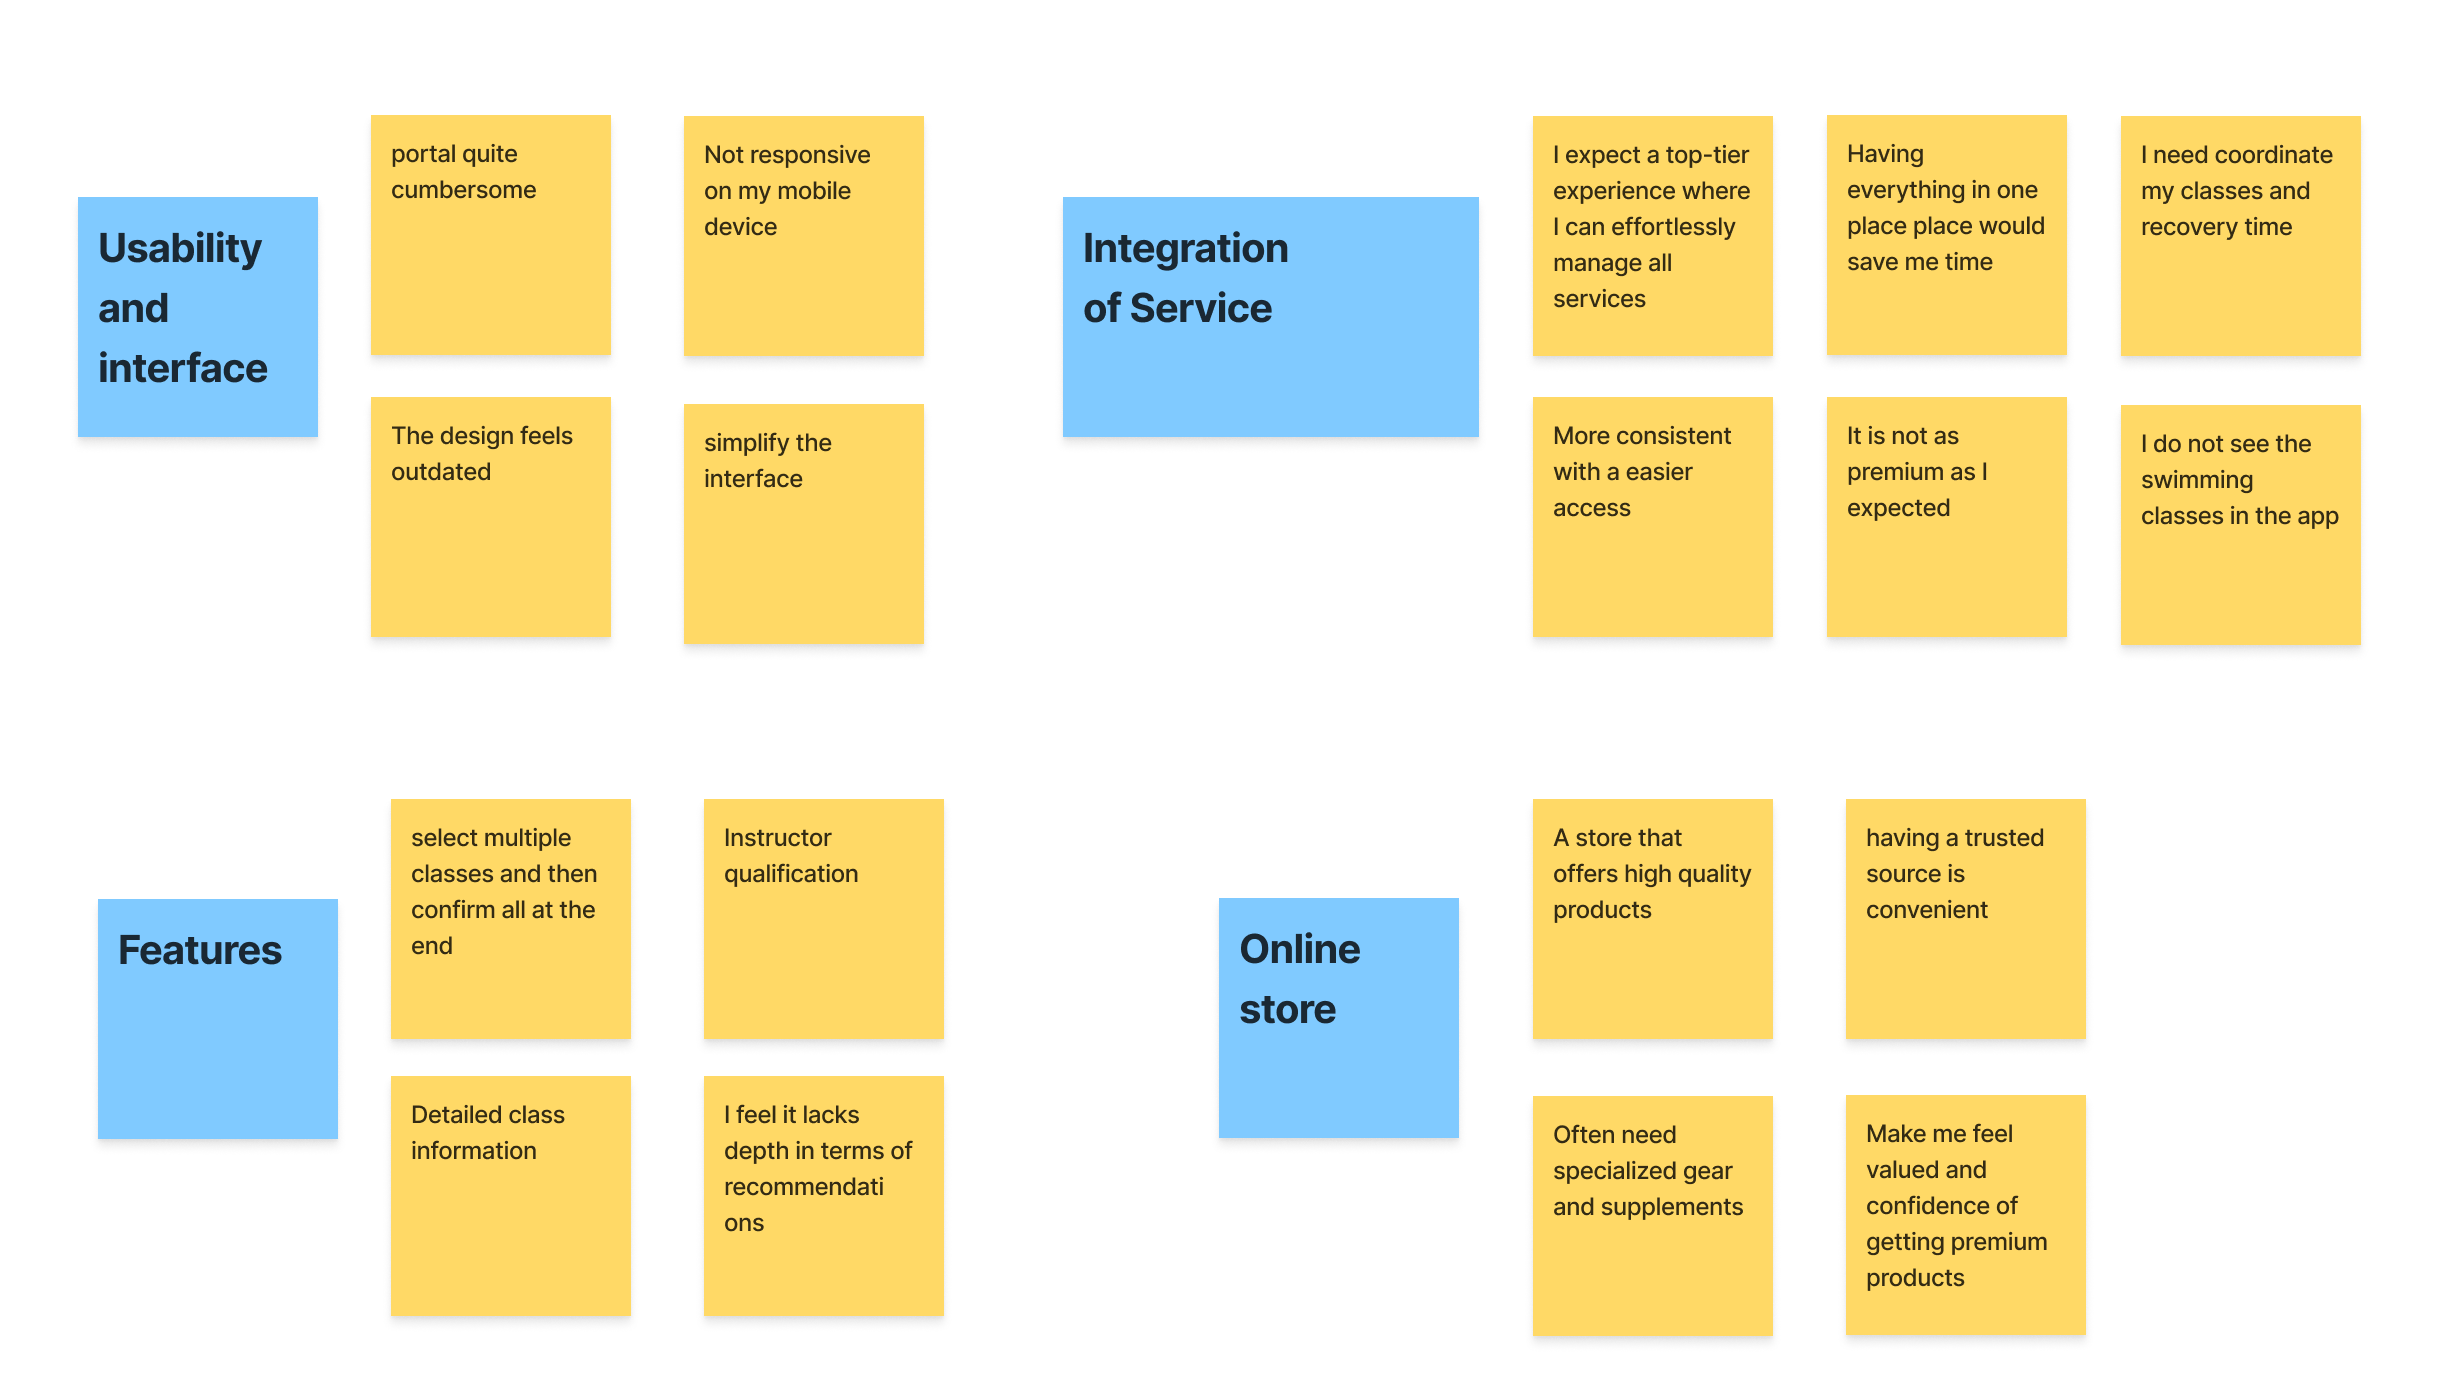
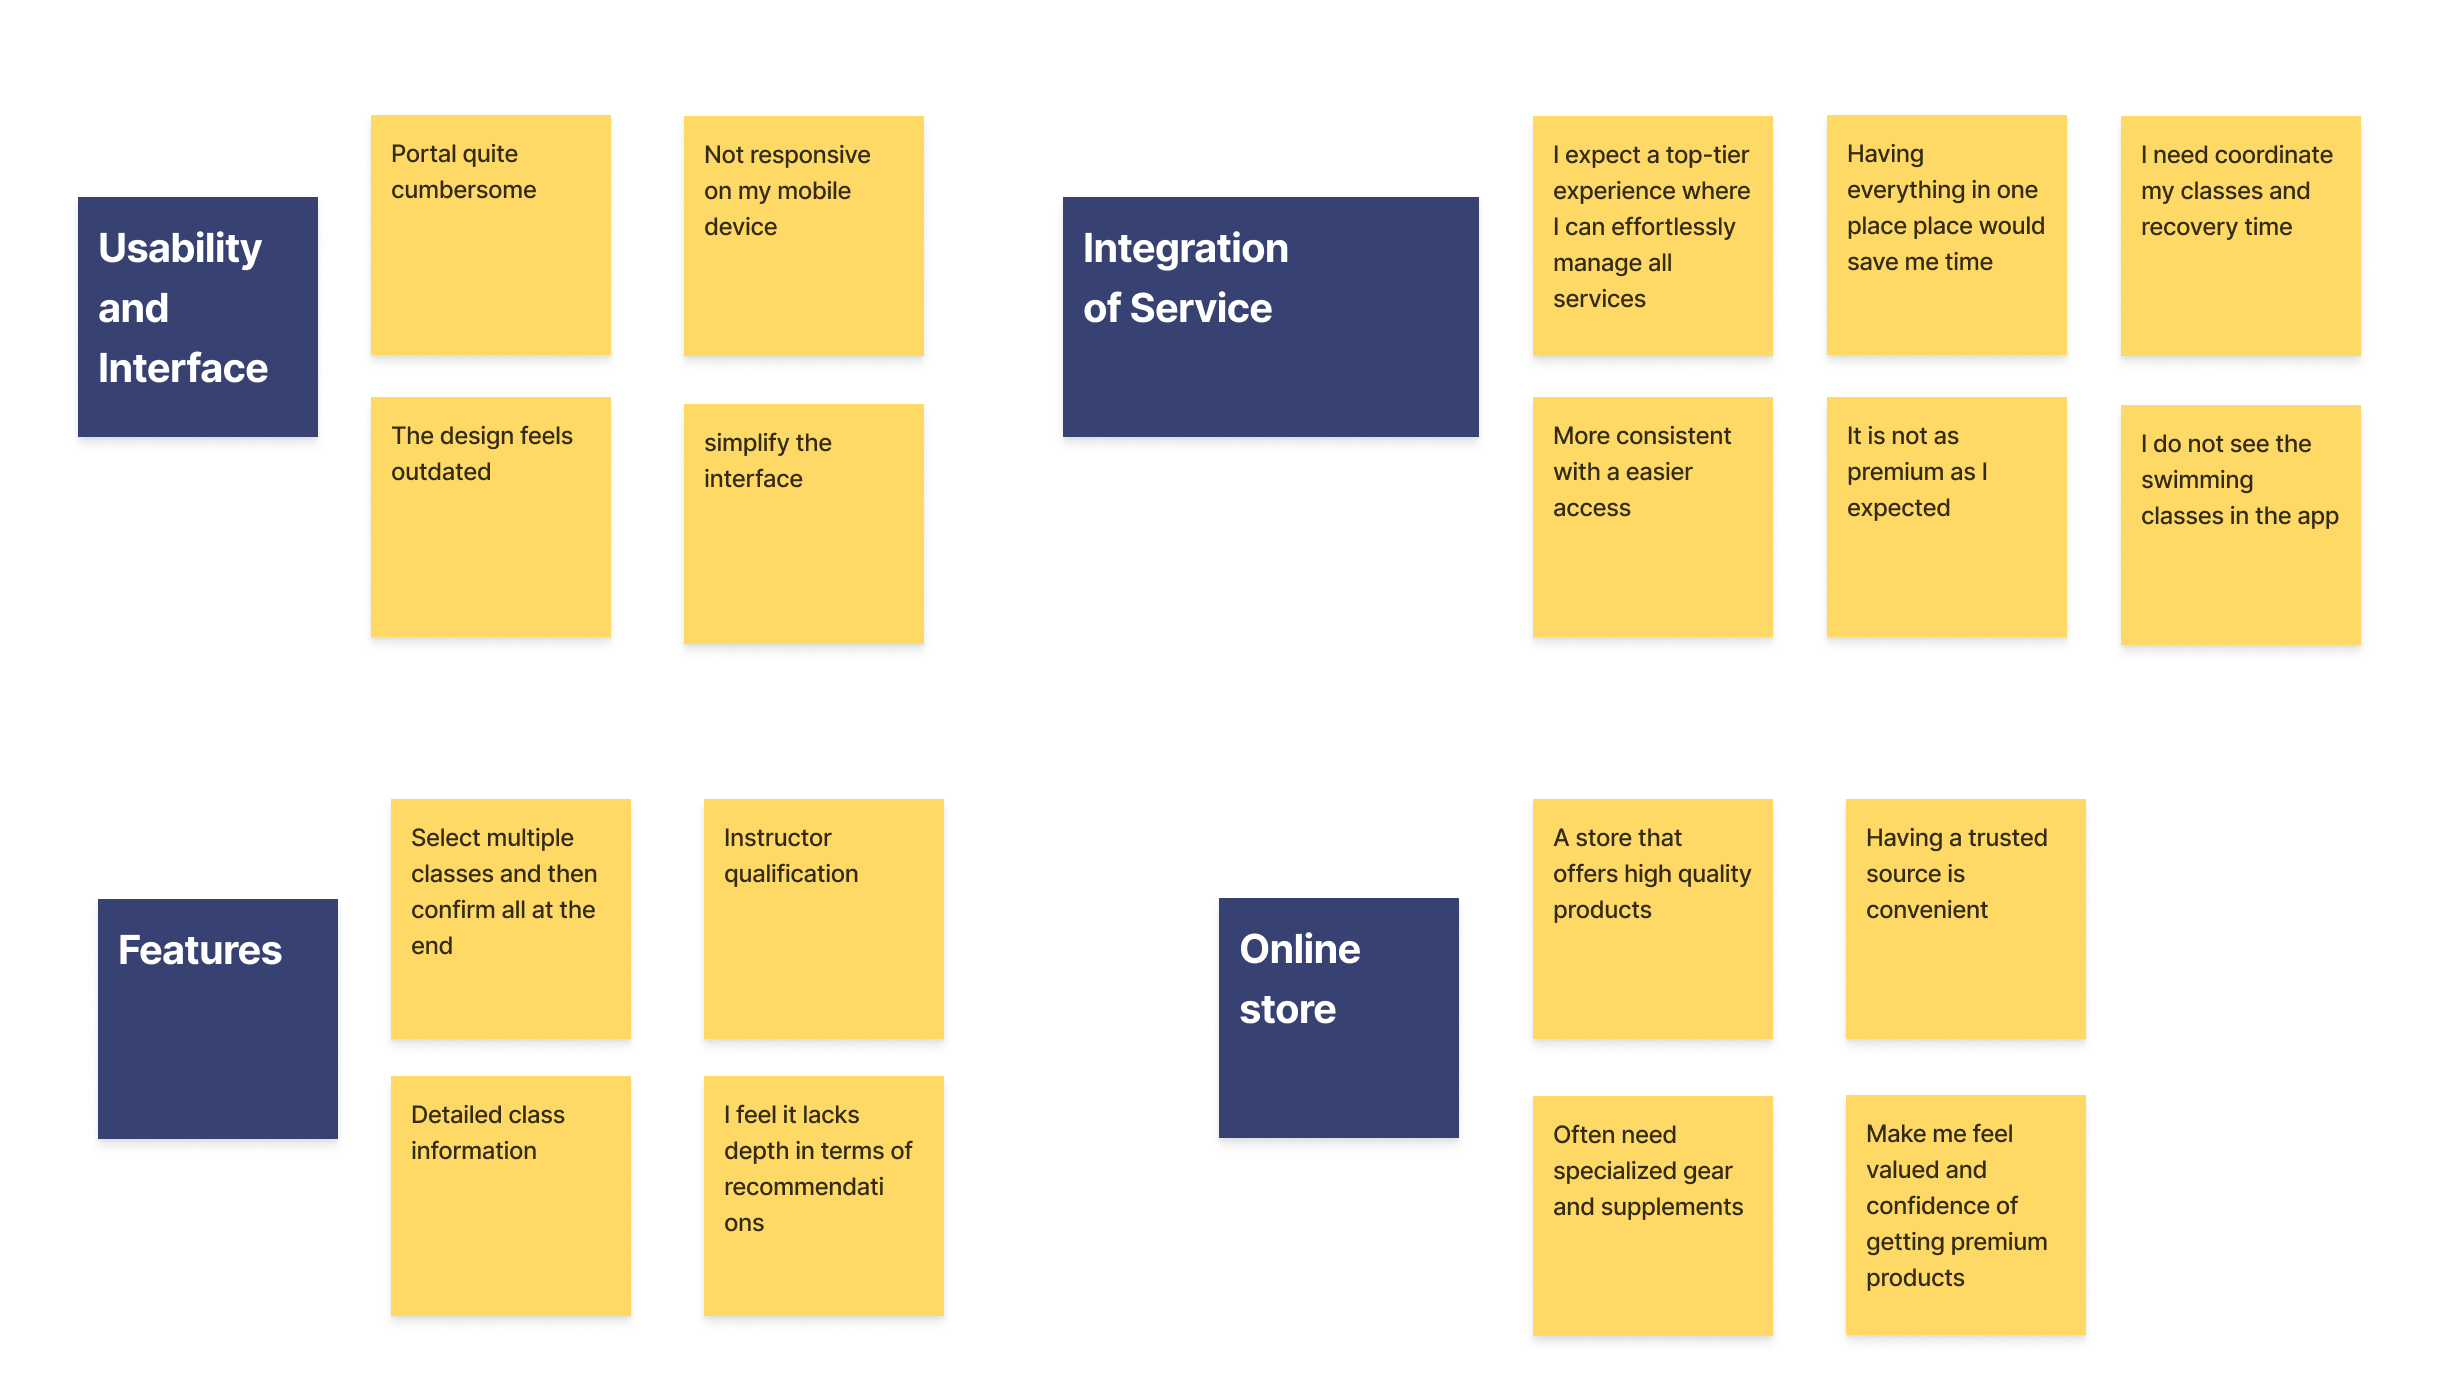
card sorting

diff --git a/projects/gym.html b/projects/gym.html
@@ -13,8 +13,17 @@
       href="https://fonts.googleapis.com/css2?family=Montserrat:ital,wght@0,100;0,200;0,300;0,400;0,500;0,600;0,700;0,800;0,900;1,100;1,200;1,300;1,400;1,500;1,600;1,700;1,800;1,900&display=swap"
       rel="stylesheet"
     />
-    <title>Document</title>
+    <title>GymPro</title>
   </head>
+  <!-- Google tag (gtag.js) -->
+<script async src="https://www.googletagmanager.com/gtag/js?id=G-PJSMS6YPB0"></script>
+<script>
+  window.dataLayer = window.dataLayer || [];
+  function gtag(){dataLayer.push(arguments);}
+  gtag('js', new Date());
+
+  gtag('config', 'G-PJSMS6YPB0');
+</script>
   <body>
     <header class="top-nav">
       <div>
@@ -178,8 +187,14 @@
           <section>
             <h2 class="underlined-title">Develop</h2>
             <h3>MoSCoW Method</h3>
-            <p>Using the Moscow Method to categorize my ideas based on their impact on the user and th amount of effort it takes to bring the idea to life.</p>
+            <p>Using the Moscow Method to categorize my ideas based on their impact on the user and the amount of effort it takes to bring the idea to life.</p>
             <img class="moscow-method" src="../assets/moscowmethod.png" alt="moscow-method">
+            <h3>Card Sorting</h3>
+            <p>Card sorting is a technique used to generate the Information Architecture or the navigation flow of an app/ website with help of users.</p>
+            <p>Based on the information gathered during the research and persona phase, I was able to decide the main categories of my app. Hence, I performed a <span class="card-sorting-description">closed card sorting</span> to understand which feature fits best under which category.</p>
+            <img class="card-sorting" src="../assets/card-sorting.png" alt="card-sorting">
+            <h3>Site Map</h3>
+
           </section>
 
 

diff --git a/projects/yogarythm/index.html b/projects/yogarythm/index.html
@@ -17,6 +17,15 @@
     <link rel="stylesheet" href="style.css" />
     <title>Yogarythm</title>
   </head>
+  <!-- Google tag (gtag.js) -->
+<script async src="https://www.googletagmanager.com/gtag/js?id=G-PJSMS6YPB0"></script>
+<script>
+  window.dataLayer = window.dataLayer || [];
+  function gtag(){dataLayer.push(arguments);}
+  gtag('js', new Date());
+
+  gtag('config', 'G-PJSMS6YPB0');
+</script>
   <body>
     <header>
       <button id="hamburguer">

diff --git a/index.html b/index.html
@@ -15,6 +15,15 @@
     />
     <title>Home</title>
   </head>
+  <!-- Google tag (gtag.js) -->
+<script async src="https://www.googletagmanager.com/gtag/js?id=G-PJSMS6YPB0"></script>
+<script>
+  window.dataLayer = window.dataLayer || [];
+  function gtag(){dataLayer.push(arguments);}
+  gtag('js', new Date());
+
+  gtag('config', 'G-PJSMS6YPB0');
+</script>
   <body>
     <div class="figma-design">
       <div class="trapezio">

diff --git a/projects/yogarythm.html b/projects/yogarythm.html
@@ -15,6 +15,15 @@
     />
     <title>Yogarythmh</title>
   </head>
+  <!-- Google tag (gtag.js) -->
+<script async src="https://www.googletagmanager.com/gtag/js?id=G-PJSMS6YPB0"></script>
+<script>
+  window.dataLayer = window.dataLayer || [];
+  function gtag(){dataLayer.push(arguments);}
+  gtag('js', new Date());
+
+  gtag('config', 'G-PJSMS6YPB0');
+</script>
   <body>
     <header class="top-nav">
       <div>

diff --git a/projects/flower-power.html b/projects/flower-power.html
@@ -15,6 +15,15 @@
     />
     <title>Fiori</title>
   </head>
+  <!-- Google tag (gtag.js) -->
+<script async src="https://www.googletagmanager.com/gtag/js?id=G-PJSMS6YPB0"></script>
+<script>
+  window.dataLayer = window.dataLayer || [];
+  function gtag(){dataLayer.push(arguments);}
+  gtag('js', new Date());
+
+  gtag('config', 'G-PJSMS6YPB0');
+</script>
   <body>
     <header class="top-nav">
       <div>

diff --git a/projects/project-style.css b/projects/project-style.css
@@ -945,7 +945,7 @@ img.carousel-desktop {
 }
 
 .affinity-mapping {
-    margin: auto;
+    margin: 16px 10%;
     width: 80%;
 }
 
@@ -954,7 +954,17 @@ img.carousel-desktop {
     width: 100%;
 }
 
+
 .moscow-method{
     width: 80%;
-    margin: 16px auto;
+    margin: 16px 10%;
+}
+
+.card-sorting-description{
+    text-decoration: underline;
+}
+
+.card-sorting{
+    width: 100%;
+    margin-top: 30px;
 }
